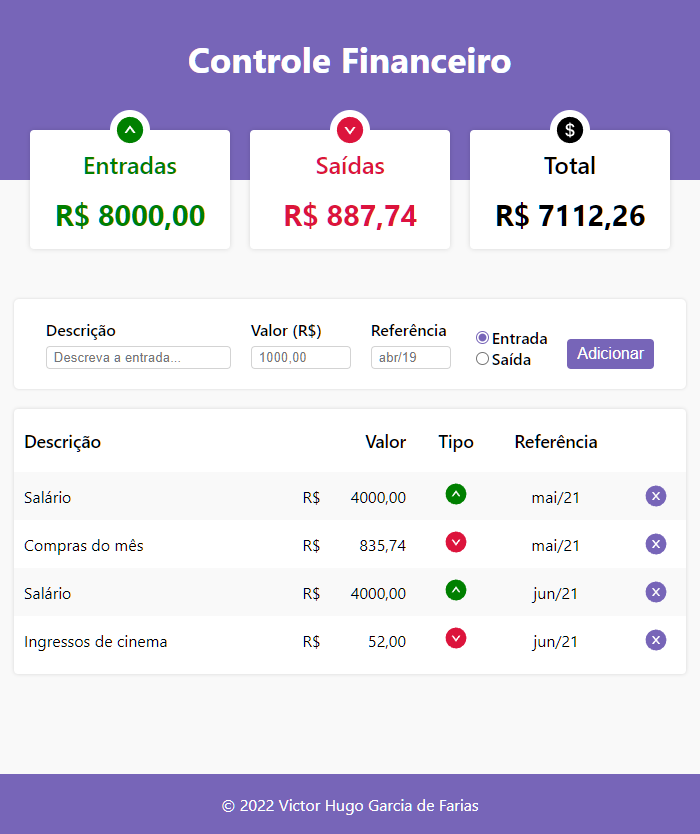
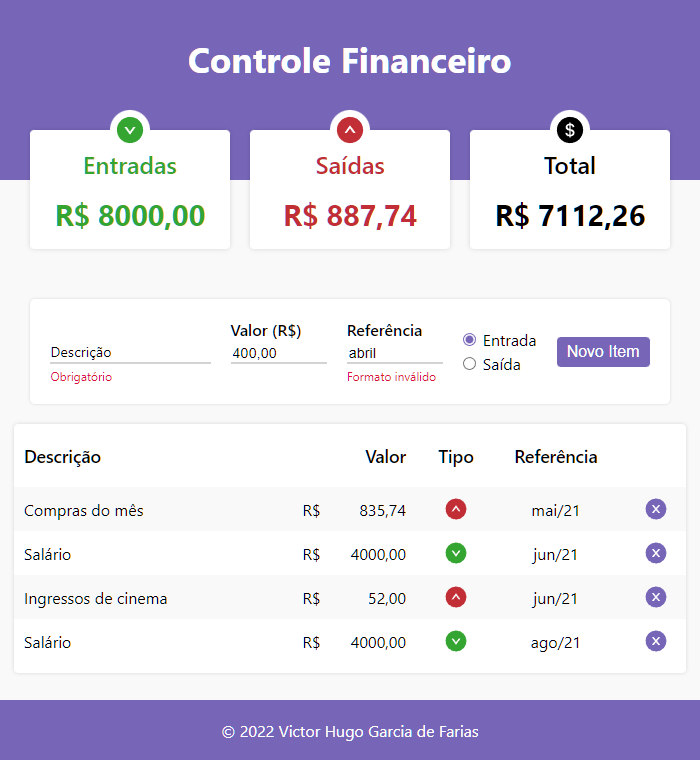
updated readme

diff --git a/README.md b/README.md
@@ -21,10 +21,24 @@ Você pode conferir o app aqui: <a href="https://controle-gastos-three.vercel.ap
 1. Executar <code>npm run build</code>
 1. Abrir o arquivo <code>index.html</code> gerado na pasta <code>build</code>
 
+### Histórico
+
+#### v1.1.0
+
+- Adicionada validação aos campos do formulário.
+- Criação de um hook _useForm_ para gerenciar a criação e o estado do formulário a partir de um objeto de configuração dos campos.
+
+#### v1.0.0
+
+- Versão inicial. É possível adicionar e remover itens da lista e os totais de entrada, saída e geral são calculados automaticamente.
+
 ### Planos Futuros
 
-- Validação dos campos do formulário de nova entrada
 - Filtragem da lista por valor de referência
 - Categorização da entrada/saída em grupos
+
+### Referências
+- Inspiração: [Will Dev](https://www.youtube.com/watch?v=pj4vA67olbU)
+- Validação do formulário com React Hook: [Felix Gerschau](https://felixgerschau.com/react-hooks-form-validation-typescript/)
 
 
